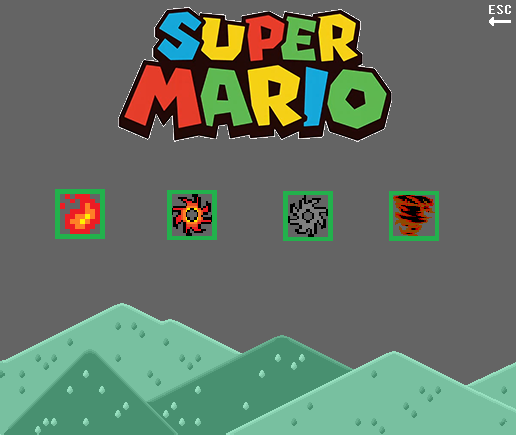
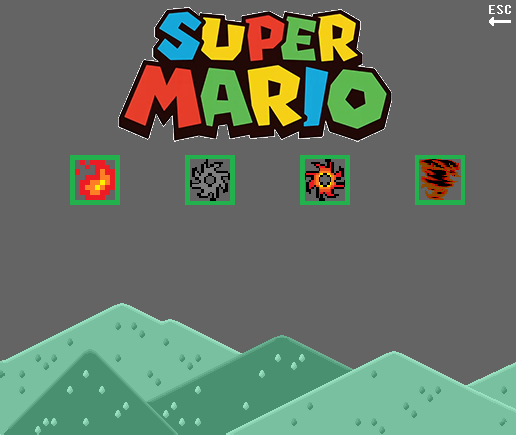
Mario révise ses skills

diff --git a/const.py b/const.py
@@ -23,8 +23,9 @@ volume_default, volume = 0.3, 3
 # Coordonnées
 menu_Curseur_Coord = [(193, 160), (193, 195), (193, 230), (193, 265)]
 levelSelection_Curseur_Coord = [(90, 200), (280, 200), (90, 250), (280, 250)]
+controls_Curseur_Coord = [(40, 165), (155, 165), (270, 165), (385, 165)]
 levelSelection_Stages_Coord = [(110, 200), (300, 200), (110, 250), (300, 250)]
-menuCurseurPos, levelCurseurPos = 0, 0
+menuCurseurPos, levelCurseurPos, controlsCurseurPos = 0, 0, 0
 
 
 # Images
@@ -34,6 +35,8 @@ levelselection_list = [(pygame.image.load("images/levelselection_stage_1_1.png")
                        (pygame.image.load("images/levelselection_stage_1_3.png")), (pygame.image.load("images/levelselection_stage_1_4.png"))]
 images_menu_list = [(pygame.image.load("images/menu_menu.png")), (pygame.image.load("images/menu_options.png")),
                        (pygame.image.load("images/menu_controls.png")), (pygame.image.load("images/menu_levelSelect.png"))]
+description_skills = [(pygame.image.load("images/controls_a.png")), (pygame.image.load("images/controls_z.png")),
+                       (pygame.image.load("images/controls_e.png")), (pygame.image.load("images/controls_r.png"))]
 menu_fond = pygame.image.load("images/menu_fond.jpg")
 volume_redsquare = pygame.image.load("images/vol_redsquare.png")
 volume_bar = pygame.image.load("images/vol_bar.jpg")

diff --git a/foncts.py b/foncts.py
@@ -9,6 +9,18 @@ def choixMenu(event, pos):
         if event.key == K_DOWN and pos < 3: pos += 1  # On peut descendre qu'en étant en haut
         if event.key == K_UP and pos > 0: pos -= 1    # Et inversement
     return pos
+
+def choixControls(event, pos):
+    if event.type == KEYDOWN:
+        if event.key == K_RIGHT and pos < 3: pos += 1
+        if event.key == K_LEFT and pos > 0: pos -= 1
+    return pos
+
+def controlsBlit(pos):
+    for x in range (0,4):
+        if pos == x:
+            screen.blit(description_skills[x], (60, 210))
+
 def menuTo(pos):
     valeurs = [0, 0, 0, 1]
     valeurs[pos] = abs(valeurs[pos] - 1)  # si c'est à 0 -> 1, si c'est à 1->0

diff --git a/mario.py b/mario.py
@@ -23,6 +23,9 @@ while continuer:
                 break
         elif controlsOn:
             ecran_menu_blit(2)
+            controlsCurseurPos = choixControls(event, controlsCurseurPos)
+            screen.blit(menuCurseurImage, controls_Curseur_Coord[controlsCurseurPos])
+            controlsBlit(controlsCurseurPos)
             if event.type == KEYDOWN and event.key == K_ESCAPE:
                 menu, controlsOn = 1, 0
         elif levelSelectionOn:
